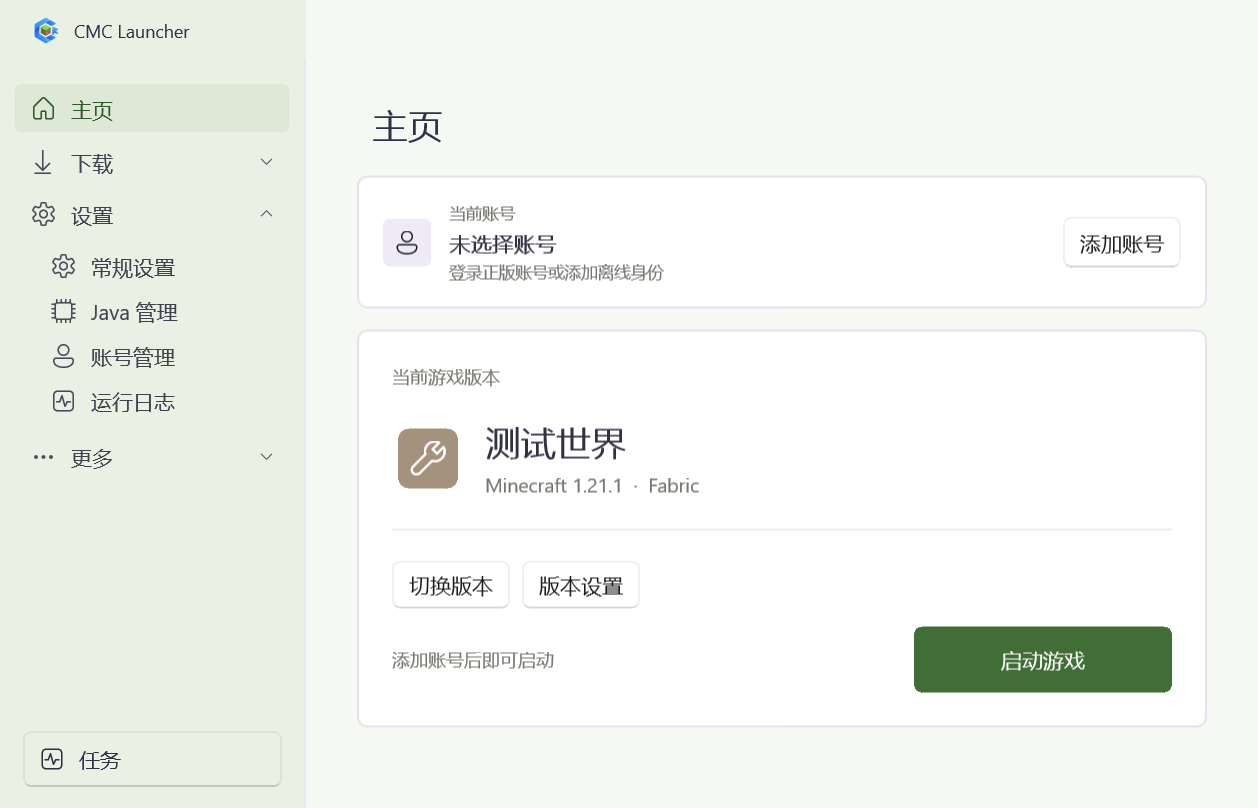
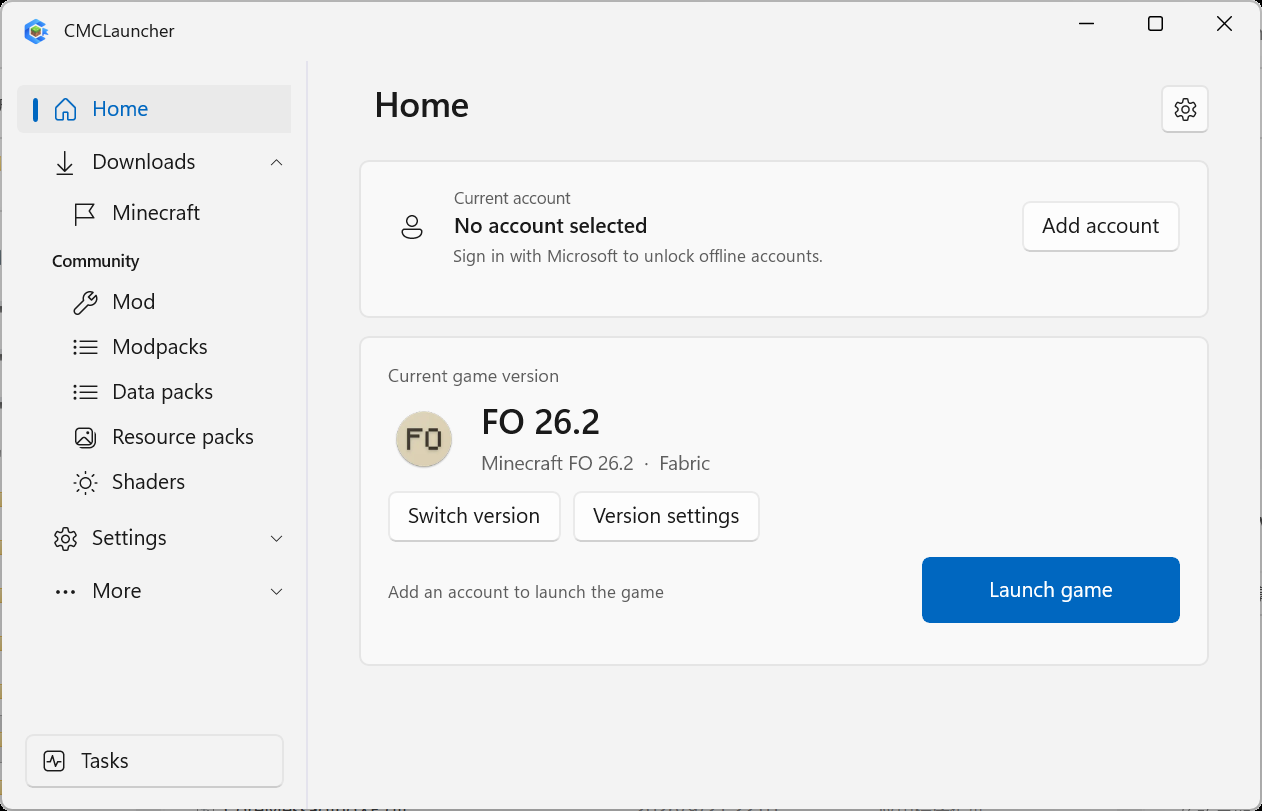
feat: Website

diff --git a/docs/index.html b/docs/index.html
@@ -12,60 +12,59 @@
 </head>
 <body>
   <header class="topbar">
-    <a class="brand" href="#top" aria-label="CMC Launcher home" data-i18n-attr="aria-label:brandAria">
+    <a class="brand" href="#top" aria-label="CMC Launcher home">
       <img src="assets/cmc-logo.png" alt="">
       <span>CMC <b>Launcher</b></span>
     </a>
-    <button class="menu-toggle" type="button" aria-expanded="false" aria-controls="main-nav" aria-label="Open menu" data-i18n-attr="aria-label:menuOpen">
+    <button class="menu-toggle" type="button" aria-expanded="false" aria-controls="main-nav" aria-label="Open menu">
       <span></span><span></span>
     </button>
-    <nav id="main-nav" aria-label="Main navigation" data-i18n-attr="aria-label:navAria">
-      <a href="#features" data-i18n="navFeatures">Features</a>
-      <a href="#principles" data-i18n="navAbout">About</a>
+    <nav id="main-nav" aria-label="Main navigation">
+      <a href="#features">Features</a>
+      <a href="#principles">About</a>
       <a href="https://github.com/com-in/CMCLauncher">GitHub</a>
     </nav>
-    <a class="top-download" href="https://github.com/com-in/CMCLauncher/releases"><span data-i18n="navDownload">Download</span> <span aria-hidden="true">↗</span></a>
-    <button class="language-toggle" id="language-toggle" type="button" aria-label="切换为中文">中文</button>
+    <a class="top-download" href="https://github.com/com-in/CMCLauncher/releases"><span>Download</span> <span aria-hidden="true">↗</span></a>
   </header>
 
   <main id="top">
     <section class="hero" aria-labelledby="hero-title">
       <div class="hero-copy">
         <p class="eyebrow"><span class="status-dot"></span> MINECRAFT JAVA · WINDOWS</p>
-        <h1 id="hero-title"><span data-i18n="heroTitleA">Your world,</span><br><span class="accent" data-i18n="heroTitleB">your next adventure.</span></h1>
-        <p class="hero-description" data-i18n="heroDescription">A Windows launcher for Minecraft Java Edition.</p>
+        <h1 id="hero-title"><span>Your world,</span><br><span class="accent">your next adventure.</span></h1>
+        <p class="hero-description">A Windows launcher for Minecraft Java Edition.</p>
         <div class="hero-actions">
-          <a class="button button-primary" href="https://github.com/com-in/CMCLauncher/releases"><span data-i18n="heroCta">View releases</span> <span aria-hidden="true">↗</span></a>
-          <a class="text-link" href="#features"><span data-i18n="heroBrowse">Explore features</span> <span aria-hidden="true">→</span></a>
+          <a class="button button-primary" href="https://github.com/com-in/CMCLauncher/releases"><span>View releases</span> <span aria-hidden="true">↗</span></a>
+          <a class="text-link" href="#features"><span>Explore features</span> <span aria-hidden="true">→</span></a>
         </div>
         <div class="hero-meta"><span>WinUI 3</span><i></i><span>Windows x64</span><i></i><span>Version 0.5.1</span></div>
       </div>
       <figure class="product-shot">
-        <img src="assets/launcher-home.png" alt="CMC Launcher 0.5.1 release home screen" data-i18n-attr="alt:shotAlt" width="1258" height="808">
-        <figcaption><span>01 / Home</span><span data-i18n="shotCaption">Your instances at a glance</span></figcaption>
+        <img src="assets/launcher-home.png" alt="CMC Launcher home screen in English" width="1262" height="811">
+        <figcaption><span>01 / Home</span><span>Your instances at a glance</span></figcaption>
       </figure>
-      <a class="scroll-cue" href="#features"><span data-i18n="scrollCue">Scroll to explore</span><b aria-hidden="true">↓</b></a>
+      <a class="scroll-cue" href="#features"><span>Scroll to explore</span><b aria-hidden="true">↓</b></a>
     </section>
 
     <section class="intro section-wrap" id="features">
       <div class="section-heading">
         <p class="eyebrow">MADE FOR YOUR WORLDS</p>
-        <h2><span data-i18n="featuresTitleA">More time for</span><br><span data-i18n="featuresTitleB">your next adventure.</span></h2>
+        <h2><span>More time for</span><br><span>your next adventure.</span></h2>
       </div>
       <div class="feature-list">
         <article class="feature-row">
           <span class="feature-index">01</span>
-          <div><h3 data-i18n="feature1Title">Manage your instances</h3><p data-i18n="feature1Copy">Organize Minecraft versions and modpacks, then switch between the worlds you play.</p></div>
+          <div><h3>Manage your instances</h3><p>Organize Minecraft versions and modpacks, then switch between the worlds you play.</p></div>
           <span class="feature-mark mark-green" aria-hidden="true">↗</span>
         </article>
         <article class="feature-row">
           <span class="feature-index">02</span>
-          <div><h3 data-i18n="feature2Title">Game versions and community content</h3><p data-i18n="feature2Copy">Browse Minecraft versions and community projects, including mods, modpacks, and content packs.</p></div>
+          <div><h3>Game versions and community content</h3><p>Browse Minecraft versions and community projects, including mods, modpacks, and content packs.</p></div>
           <span class="feature-mark mark-blue" aria-hidden="true">＋</span>
         </article>
         <article class="feature-row">
           <span class="feature-index">03</span>
-          <div><h3 data-i18n="feature3Title">Set up the way you play</h3><p data-i18n="feature3Copy">Choose a game version, adjust launch options, and keep your game content organized.</p></div>
+          <div><h3>Set up the way you play</h3><p>Choose a game version, adjust launch options, and keep your game content organized.</p></div>
           <span class="feature-mark mark-lime" aria-hidden="true">⌁</span>
         </article>
       </div>
@@ -75,36 +74,36 @@
       <div class="principles-inner">
         <div class="principles-title">
           <p class="eyebrow">BUILT AROUND YOU</p>
-          <h2><span data-i18n="aboutTitleA">Made for the</span><br><span data-i18n="aboutTitleB">Minecraft community.</span></h2>
+          <h2><span>Made for the</span><br><span>Minecraft community.</span></h2>
         </div>
         <div class="principles-copy">
-          <div class="principle"><span>01</span><div><h3 data-i18n="about1Title">Built for Minecraft Java Edition</h3><p data-i18n="about1Copy">A focused place to explore game versions and community content.</p></div></div>
-          <div class="principle"><span>02</span><div><h3 data-i18n="about2Title">A familiar Windows experience</h3><p data-i18n="about2Copy">Built with WinUI 3, with light, dark, and custom themes.</p></div></div>
-          <div class="principle"><span>03</span><div><h3 data-i18n="about3Title">Open source</h3><p data-i18n="about3Copy">Explore the code, follow development, or contribute to the project.</p></div></div>
+          <div class="principle"><span>01</span><div><h3>Built for Minecraft Java Edition</h3><p>A focused place to explore game versions and community content.</p></div></div>
+          <div class="principle"><span>02</span><div><h3>A familiar Windows experience</h3><p>Built with WinUI 3, with light, dark, and custom themes.</p></div></div>
+          <div class="principle"><span>03</span><div><h3>Open source</h3><p>Explore the code, follow development, or contribute to the project.</p></div></div>
         </div>
       </div>
       <div class="principles-foot"><span>CMC LAUNCHER</span><span>Open source · GPL-3.0</span></div>
     </section>
 
     <section class="download section-wrap" id="download">
-      <div class="download-logo"><img src="assets/cmc-logo.png" alt="CMC Launcher 图标"></div>
+      <div class="download-logo"><img src="assets/cmc-logo.png" alt="CMC Launcher icon"></div>
       <div class="download-copy">
         <p class="eyebrow">WINDOWS · X64</p>
-        <h2 data-i18n="downloadTitle">Ready for your next world?</h2>
-        <p data-i18n="downloadDescription">CMC Launcher 0.5.1 · Windows x64</p>
+        <h2>Ready for your next world?</h2>
+        <p>CMC Launcher 0.5.1 · Windows x64</p>
       </div>
       <div class="download-action">
-        <span class="release-state"><i></i><span data-i18n="releaseState">No official release published yet</span></span>
-        <a class="button button-outline" href="https://github.com/com-in/CMCLauncher/releases"><span data-i18n="releaseLink">View GitHub releases</span> <span aria-hidden="true">↗</span></a>
+        <span class="release-state"><i></i><span>No official release published yet</span></span>
+        <a class="button button-outline" href="https://github.com/com-in/CMCLauncher/releases"><span>View GitHub releases</span> <span aria-hidden="true">↗</span></a>
       </div>
     </section>
   </main>
 
   <footer class="footer">
     <a class="brand footer-brand" href="#top"><img src="assets/cmc-logo.png" alt=""><span>CMC <b>Launcher</b></span></a>
-    <p data-i18n="footerNote">Made for Minecraft Java Edition. Minecraft is a trademark of Mojang Studios.</p>
+    <p>Made for Minecraft Java Edition. Minecraft is a trademark of Mojang Studios.</p>
     <a href="LICENSE">GPL-3.0 License</a>
-    <a href="https://github.com/com-in/CMCLauncher" data-i18n="githubProject">GitHub project</a>
+    <a href="https://github.com/com-in/CMCLauncher">GitHub project</a>
     <span class="copyright">© 2026 CMC Launcher</span>
   </footer>
 </body>

diff --git a/docs/app.js b/docs/app.js
@@ -1,90 +1,17 @@
 const menuButton = document.querySelector('.menu-toggle');
 const nav = document.querySelector('#main-nav');
-const languageButton = document.querySelector('#language-toggle');
-
-const translations = {
-  en: {
-    title: 'CMC Launcher — Start your next world',
-    description: 'CMC Launcher is a Windows launcher for Minecraft Java Edition. Explore game versions, manage instances, and find community content.',
-    brandAria: 'CMC Launcher home', menuOpen: 'Open menu', menuClose: 'Close menu', navAria: 'Main navigation',
-    navFeatures: 'Features', navAbout: 'About', navDownload: 'Download', languageButton: '中文', languageAria: 'Switch to Chinese',
-    heroTitleA: 'Your world,', heroTitleB: 'your next adventure.', heroDescription: 'A Windows launcher for Minecraft Java Edition.',
-    heroCta: 'View releases', heroBrowse: 'Explore features', shotAlt: 'CMC Launcher 0.5.1 release home screen',
-    shotCaption: 'Release build · English game language', scrollCue: 'Scroll to explore', featuresTitleA: 'More time for', featuresTitleB: 'your next adventure.',
-    feature1Title: 'Manage your instances', feature1Copy: 'Organize Minecraft versions and modpacks, then switch between the worlds you play.',
-    feature2Title: 'Game versions and community content', feature2Copy: 'Browse Minecraft versions and community projects, including mods, modpacks, and content packs.',
-    feature3Title: 'Set up the way you play', feature3Copy: 'Choose a game version, adjust launch options, and keep your game content organized.',
-    aboutTitleA: 'Made for the', aboutTitleB: 'Minecraft community.',
-    about1Title: 'Built for Minecraft Java Edition', about1Copy: 'A focused place to explore game versions and community content.',
-    about2Title: 'A familiar Windows experience', about2Copy: 'Built with WinUI 3, with light, dark, and custom themes.',
-    about3Title: 'Open source', about3Copy: 'Explore the code, follow development, or contribute to the project.',
-    downloadTitle: 'Ready for your next world?', downloadDescription: 'CMC Launcher 0.5.1 · Windows x64',
-    releaseState: 'No official release published yet', releaseLink: 'View GitHub releases',
-    footerNote: 'Made for Minecraft Java Edition. Minecraft is a trademark of Mojang Studios.', githubProject: 'GitHub project'
-  },
-  zh: {
-    title: 'CMC Launcher — 你的世界，由此开始',
-    description: 'CMC Launcher 是面向 Minecraft Java 版的 Windows 启动器。浏览游戏版本、管理实例和探索社区内容。',
-    brandAria: 'CMC Launcher 首页', menuOpen: '打开菜单', menuClose: '关闭菜单', navAria: '主导航',
-    navFeatures: '功能', navAbout: '关于', navDownload: '下载', languageButton: 'EN', languageAria: 'Switch to English',
-    heroTitleA: '你的世界，', heroTitleB: '由此开始。', heroDescription: '一个为 Minecraft Java Edition 打造的 Windows 启动器。',
-    heroCta: '查看发行版', heroBrowse: '看看它能做什么', shotAlt: 'CMC Launcher 0.5.1 发布版主页界面',
-    shotCaption: '发布版截图 · 游戏语言为 English', scrollCue: '继续探索', featuresTitleA: '把时间留给', featuresTitleB: '下一次冒险。',
-    feature1Title: '实例，按你的方式管理', feature1Copy: '整理 Minecraft 版本与整合包实例，按需切换游玩内容。',
-    feature2Title: '游戏下载与社区内容', feature2Copy: '获取 Minecraft 游戏版本与社区资源，支持 Mod、整合包和常见内容包。',
-    feature3Title: '贴合你的游玩习惯', feature3Copy: '选择适合的游戏版本、调整启动选项，并管理自己的游戏内容。',
-    aboutTitleA: '为玩家打造', aboutTitleB: '属于你的方块世界。',
-    about1Title: '为 Minecraft Java Edition 打造', about1Copy: '从游戏版本到社区内容，为日常游玩提供一个专注的入口。',
-    about2Title: '熟悉的 Windows 体验', about2Copy: '以 WinUI 3 构建，支持浅色、深色与自定义主题。',
-    about3Title: '开源协作', about3Copy: '查看源码、跟进项目进展，或参与后续开发。',
-    downloadTitle: '准备好，进入你的世界。', downloadDescription: 'CMC Launcher 0.5.1 · Windows x64',
-    releaseState: 'GitHub 暂无正式 Release', releaseLink: '查看发行版',
-    footerNote: '为 Minecraft Java Edition 打造。Minecraft 是 Mojang Studios 的商标。', githubProject: 'GitHub 项目'
-  }
-};
-
-function setLanguage(language, save = true) {
-  const locale = language === 'zh' ? 'zh' : 'en';
-  const strings = translations[locale];
-  document.documentElement.lang = locale === 'zh' ? 'zh-CN' : 'en';
-  document.title = strings.title;
-  document.querySelector('meta[name="description"]').content = strings.description;
-  document.querySelectorAll('[data-i18n]').forEach(element => {
-    element.textContent = strings[element.dataset.i18n];
-  });
-  document.querySelectorAll('[data-i18n-attr]').forEach(element => {
-    const [attribute, key] = element.dataset.i18nAttr.split(':');
-    element.setAttribute(attribute, strings[key]);
-  });
-  languageButton.textContent = strings.languageButton;
-  languageButton.setAttribute('aria-label', strings.languageAria);
-  if (save) {
-    try { localStorage.setItem('cmc-language', locale); } catch { /* Storage is optional for local previews. */ }
-  }
-}
 
 menuButton.addEventListener('click', () => {
   const isOpen = menuButton.getAttribute('aria-expanded') === 'true';
   menuButton.setAttribute('aria-expanded', String(!isOpen));
-  menuButton.setAttribute('aria-label', translations[document.documentElement.lang === 'zh-CN' ? 'zh' : 'en'][isOpen ? 'menuOpen' : 'menuClose']);
+  menuButton.setAttribute('aria-label', isOpen ? 'Open menu' : 'Close menu');
   nav.classList.toggle('is-open', !isOpen);
 });
 
 nav.addEventListener('click', event => {
   if (event.target.closest('a')) {
     menuButton.setAttribute('aria-expanded', 'false');
-    menuButton.setAttribute('aria-label', translations[document.documentElement.lang === 'zh-CN' ? 'zh' : 'en'].menuOpen);
+    menuButton.setAttribute('aria-label', 'Open menu');
     nav.classList.remove('is-open');
   }
 });
-
-languageButton.addEventListener('click', () => {
-  setLanguage(document.documentElement.lang === 'zh-CN' ? 'en' : 'zh');
-  const strings = translations[document.documentElement.lang === 'zh-CN' ? 'zh' : 'en'];
-  const menuIsOpen = menuButton.getAttribute('aria-expanded') === 'true';
-  menuButton.setAttribute('aria-label', strings[menuIsOpen ? 'menuClose' : 'menuOpen']);
-});
-
-let savedLanguage = 'en';
-try { savedLanguage = localStorage.getItem('cmc-language') || 'en'; } catch { /* First view stays English when storage is unavailable. */ }
-setLanguage(savedLanguage, false);

diff --git a/docs/styles.css b/docs/styles.css
@@ -9,7 +9,7 @@
   --blue-dark: #045bc6;
   --green: #74ca31;
   --content: 1120px;
-  font-family: 'DM Sans', 'Noto Sans SC', 'Segoe UI', sans-serif;
+  font-family: 'DM Sans', 'Segoe UI', sans-serif;
   font-synthesis: none;
   text-rendering: optimizeLegibility;
   -webkit-font-smoothing: antialiased;
@@ -34,8 +34,6 @@ button { font: inherit; }
 .top-download { padding: 10px 15px; border: 1px solid #d7e2ef; border-radius: 5px; color: var(--blue-dark); font-size: 13px; font-weight: 600; transition: background 150ms ease, border-color 150ms ease; }
 .top-download:hover { border-color: var(--blue); background: #f0f7ff; }
 .top-download span { margin-left: 10px; }
-.language-toggle { min-height: 36px; min-width: 48px; padding: 0 9px; border: 1px solid transparent; border-radius: 5px; background: transparent; color: #526174; font-size: 12px; font-weight: 600; cursor: pointer; transition: color 150ms ease, background 150ms ease, border-color 150ms ease; }
-.language-toggle:hover, .language-toggle:focus-visible { color: var(--blue-dark); background: #f0f7ff; border-color: #d7e2ef; }
 .menu-toggle { display: none; }
 
 .hero { min-height: 660px; padding: 64px 28px 28px; display: flex; flex-direction: column; align-items: center; position: relative; overflow: hidden; }
@@ -113,7 +111,6 @@ h1, h2, h3, p, figure { margin-top: 0; }
   .brand { font-size: 14px; }
   .brand img { width: 28px; height: 28px; }
   .top-download { margin-left: auto; margin-right: 12px; padding: 8px 10px; font-size: 11px; }
-  .language-toggle { order: 3; min-width: 43px; min-height: 34px; padding: 0 7px; font-size: 11px; }
   .menu-toggle { order: 4; width: 34px; height: 34px; padding: 9px 6px; display: flex; flex-direction: column; justify-content: center; gap: 5px; border: 0; background: transparent; }
   .menu-toggle span { width: 20px; height: 1.5px; background: var(--ink); }
   .topbar nav { position: absolute; top: 61px; left: 0; right: 0; padding: 0 20px; display: grid; gap: 0; background: #fff; border-bottom: 1px solid var(--line); max-height: 0; overflow: hidden; transition: max-height 200ms ease, padding 200ms ease; }

diff --git a/docs/README.md b/docs/README.md
@@ -1,11 +1,11 @@
 # CMC Launcher
 
-CMC Launcher 是 Minecraft Java 版原生 Windows 启动器，使用 WinUI 3 构建。官网页面位于 `index.html`，图片、样式和交互脚本均为静态文件，不依赖服务端。
+CMC Launcher is a native Windows launcher for Minecraft Java Edition, built with WinUI 3. The website in `index.html` is static and does not require a server-side component.
 
-## 部署
+## Deployment
 
-可直接用 GitHub Pages 发布：在仓库设置中将 Pages 来源设为 `Deploy from a branch`，分支设为 `main`，目录选择 `/docs`。
+Deploy with GitHub Pages by setting the source to `Deploy from a branch`, selecting the `main` branch, and choosing the `/docs` folder.
 
-GitHub 仓库目前没有正式 Release。发布版本后，官网的下载入口会指向 GitHub Releases。
+The website's download links point to GitHub Releases.
 
-项目按 GNU General Public License v3.0 授权，完整文本见 [`LICENSE`](LICENSE)。源码仓库：[com-in/CMCLauncher](https://github.com/com-in/CMCLauncher)。
+The project is licensed under the GNU General Public License v3.0. See [`LICENSE`](LICENSE) for the full text. Source repository: [com-in/CMCLauncher](https://github.com/com-in/CMCLauncher).
